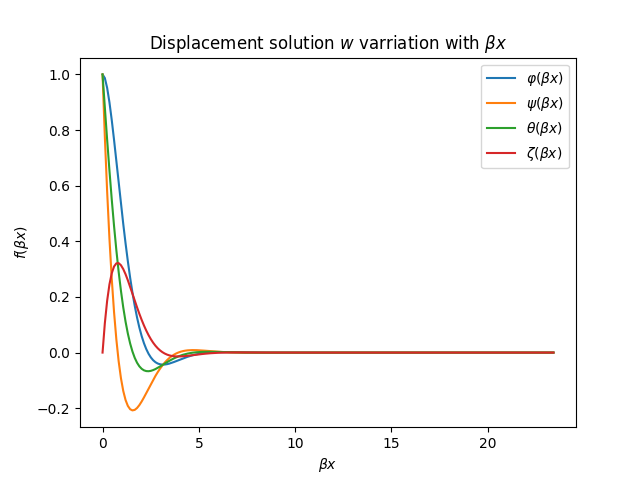
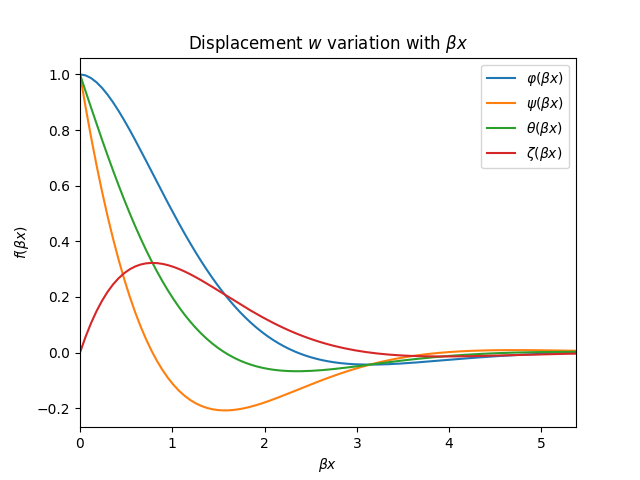
M, Q, w variations wrt x

diff --git a/ThinShell/Momments.py b/ThinShell/Momments.py
@@ -27,7 +27,7 @@ FlexRig = (E_y*t**3)/(12*(1-v**3))
 Beta = ((3*(1-v**2))/((R**t)**2))**0.25
 
 x_step = 0.125
-x = np.arange(0, l + x_step, x_step)
+x = np.arange(0, l/2 + x_step, x_step)
 
 Bx = Beta*x
 Phi_Bx = (np.exp(-Bx))*(np.cos(Bx)+np.sin(Bx))
@@ -35,28 +35,26 @@ Psi_Bx = (np.exp(-Bx))*(np.cos(Bx)-np.sin(Bx))
 Theta_Bx = (np.exp(-Bx))*(np.cos(Bx))
 Zeta_Bx = (np.exp(-Bx))*(np.sin(Bx))
 
-# Find where beta is approx equal to zero
-results = np.where(abs(Phi_Bx) <= 0.001)
-Beta_zero = results[0][0]
+# Results for P applied at center
+w_x = (P/(8*(Beta**3)*FlexRig))*Phi_Bx
+M_x = (P/(4*Beta))*Psi_Bx
+Q_x = (P/2)*Theta_Bx
 
-# Calculate critical length and check if assumption is valid
-x_crit = Bx[Beta_zero]/Beta
-if x_crit <= l/2:
-    print('Long shell assumption is VALID')
-else:
-    print('Long shell assumption is INVALID')
-
-# # plot bending functions
-plt.figure(1)
-# to write math text must use r'$\greekletter text$'
-plt.plot(Bx, Phi_Bx, label=r'$\varphi ( \beta x)$')
-plt.plot(Bx, Psi_Bx, label=r'$\psi ( \beta x)$')
-plt.plot(Bx, Theta_Bx, label=r'$\theta ( \beta x)$')
-plt.plot(Bx, Zeta_Bx, label=r'$\zeta ( \beta x)$')
-plt.xlabel(r'$\beta x$')
-plt.ylabel(r'$f( \beta x)$')
-plt.xlim([0,Bx[Beta_zero]])
-plt.title('Displacement ' r'$w$' ' variation with ' r'$\beta x$')
-plt.legend()
-plt.savefig('Figures\w_fxns.png')
+plt.close('all')
+# Two subplots, the axes array is 1-d
+f, axarr = plt.subplots(3, sharex=True)
+# Plot w(x)
+axarr[0].plot(x, w_x)
+axarr[0].set_title('Deflection, Moment, Shear Distribution')
+axarr[0].set_ylabel(r'$w(x)\ [in]$')
+# Plot M(x)
+axarr[1].plot(x, M_x)
+axarr[1].set_ylabel(r'$M(x)\ [lbs\cdot in]$')
+# Plot Q(x)
+axarr[2].plot(x, Q_x)
+axarr[2].set_ylabel(r'$Q(x)\ [lbs]$')
+axarr[2].set_xlabel(r'$x\ [in]$')
+axarr[2].set_xlim([0, l/4])
+# Save fige and show
+plt.savefig('Figures\wMQ_vs_x.png')
 plt.show()
